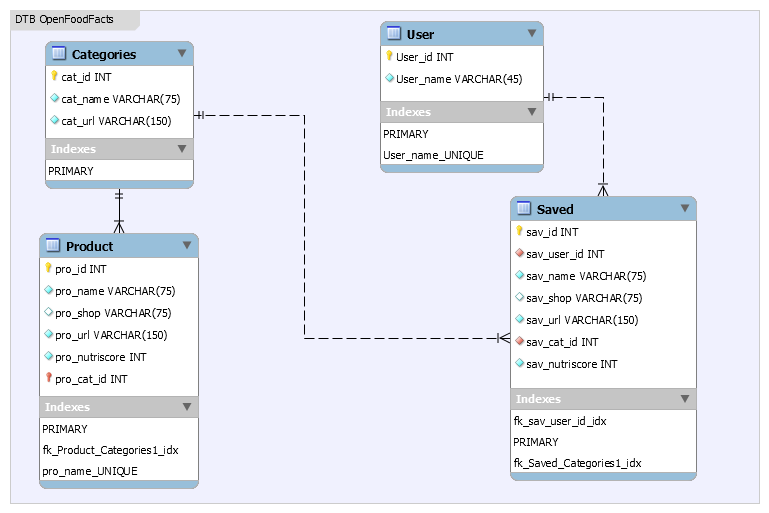
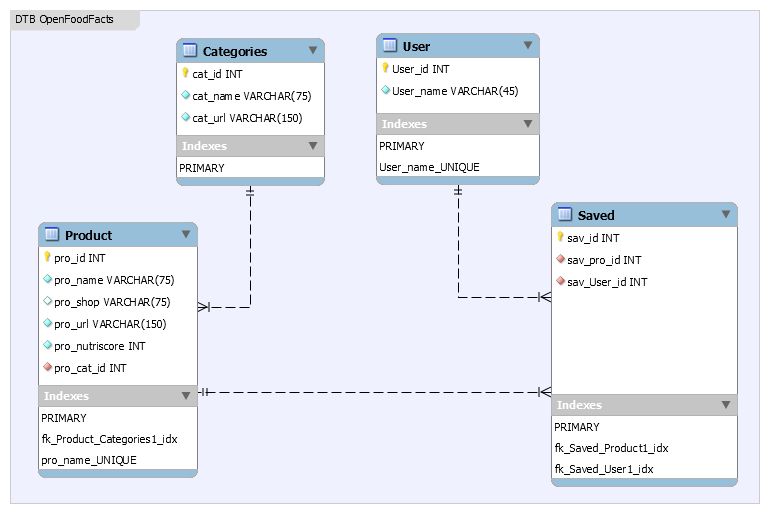
- Add SQL file import function, delete "database.txt"

diff --git a/database.py b/database.py
@@ -21,7 +21,7 @@ class SqlRequest:
         self.user_name = user_name
         self.password = password
 
-    def create_db(self):
+    def create_db(self, filename):
         ''' Function to create and download the database'''
 
         try:
@@ -29,13 +29,22 @@ class SqlRequest:
                                            user=self.user_name, password=self.password,
                                            database=self.db_name, charset='utf8')
             cursor = self.db_name.cursor()
-            with open("database.txt", "r") as file:
-                for line in file:
-                    command = line.rstrip(";")
-                    cursor.execute(command)
-                    self.db_name.commit()
+            # Open SQL file
+            with open(filename, 'r') as fileToRead:
+                sqlFile = fileToRead.read()
+
+            # split all command by ';'
+            sqlCommand = sqlFile.split(';')
+
+            # Execute each command in sqlcommand
+            for command in sqlCommand:
+                try:
+                    if command.strip() != '':
+                        cursor.execute(command)
+                except pymysql.err.InternalError as msg:
+                        print("Erreur: {}".format(msg))
             print("\nBase de données créer")
-            print("Chargement de la base de données...")
+            print("\nChargement de la base de données...")
 
             # Get the french categorie database from OpenFoodFacts and add to the local database
             categories_url = urllib.request.urlopen('https://fr.openfoodfacts.org/categories.json')
@@ -217,7 +226,7 @@ if __name__ == '__main__':
     # Test
     newdb = SqlRequest('dbopenfoodfacts', 'localhost', 'root', '')
     #resultat = newdb.request_db("SELECT pro_name FROM product", True)
-    resultat = newdb.check_db()
+    resultat = newdb.create_db('database.sql')
     #resultat = newdb.product_db("Boissons")
     #resultat = resultat[0]
     print(resultat)

diff --git a/program.py b/program.py
@@ -149,7 +149,7 @@ def access_sav(db_state, user_count):
             time.sleep(2)
             menu()
     else:
-        print("Il n'y a pas de base de données créer, retour au menu...")
+        print("\nIl n'y a pas de base de données créer, retour au menu...")
         time.sleep(2)
         menu()
 
@@ -334,7 +334,7 @@ def create_database(db_state):
     """ Option 5 - Create the database and download the categories list """
     newdb = db.SqlRequest('', 'localhost', 'root', '')
     if db_state is False:
-        newdb.create_db()
+        newdb.create_db('database.sql')
         #print("")
         print("\nRetour au menu...")
         time.sleep(2)
